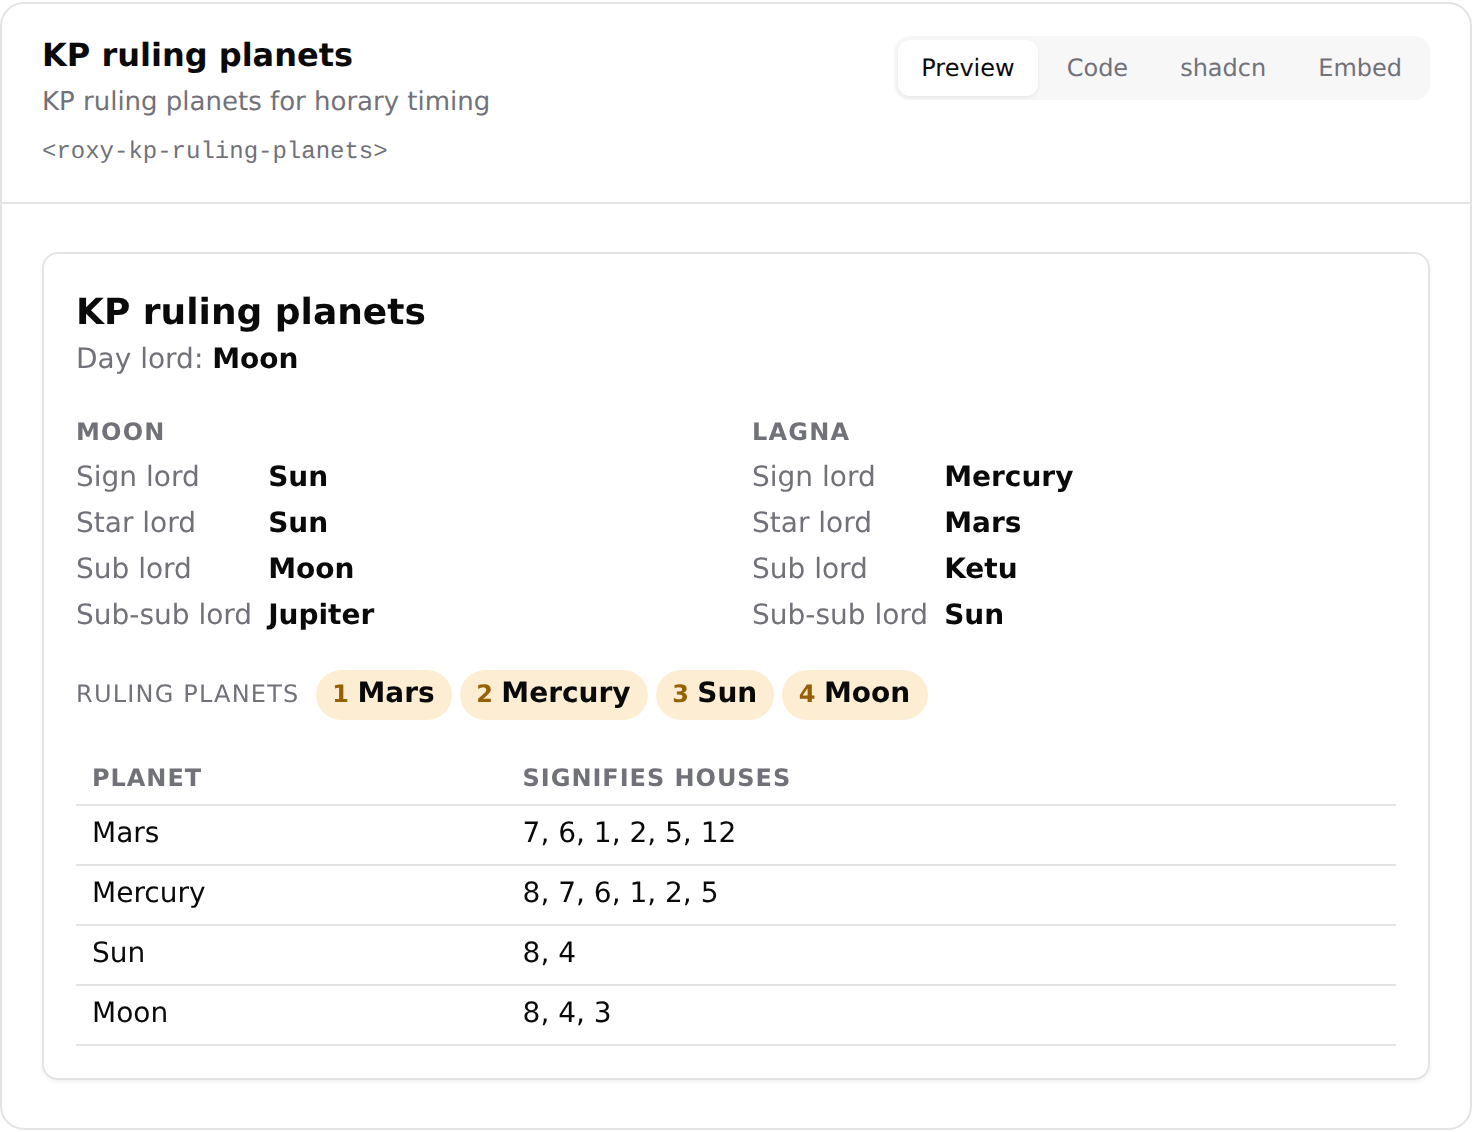
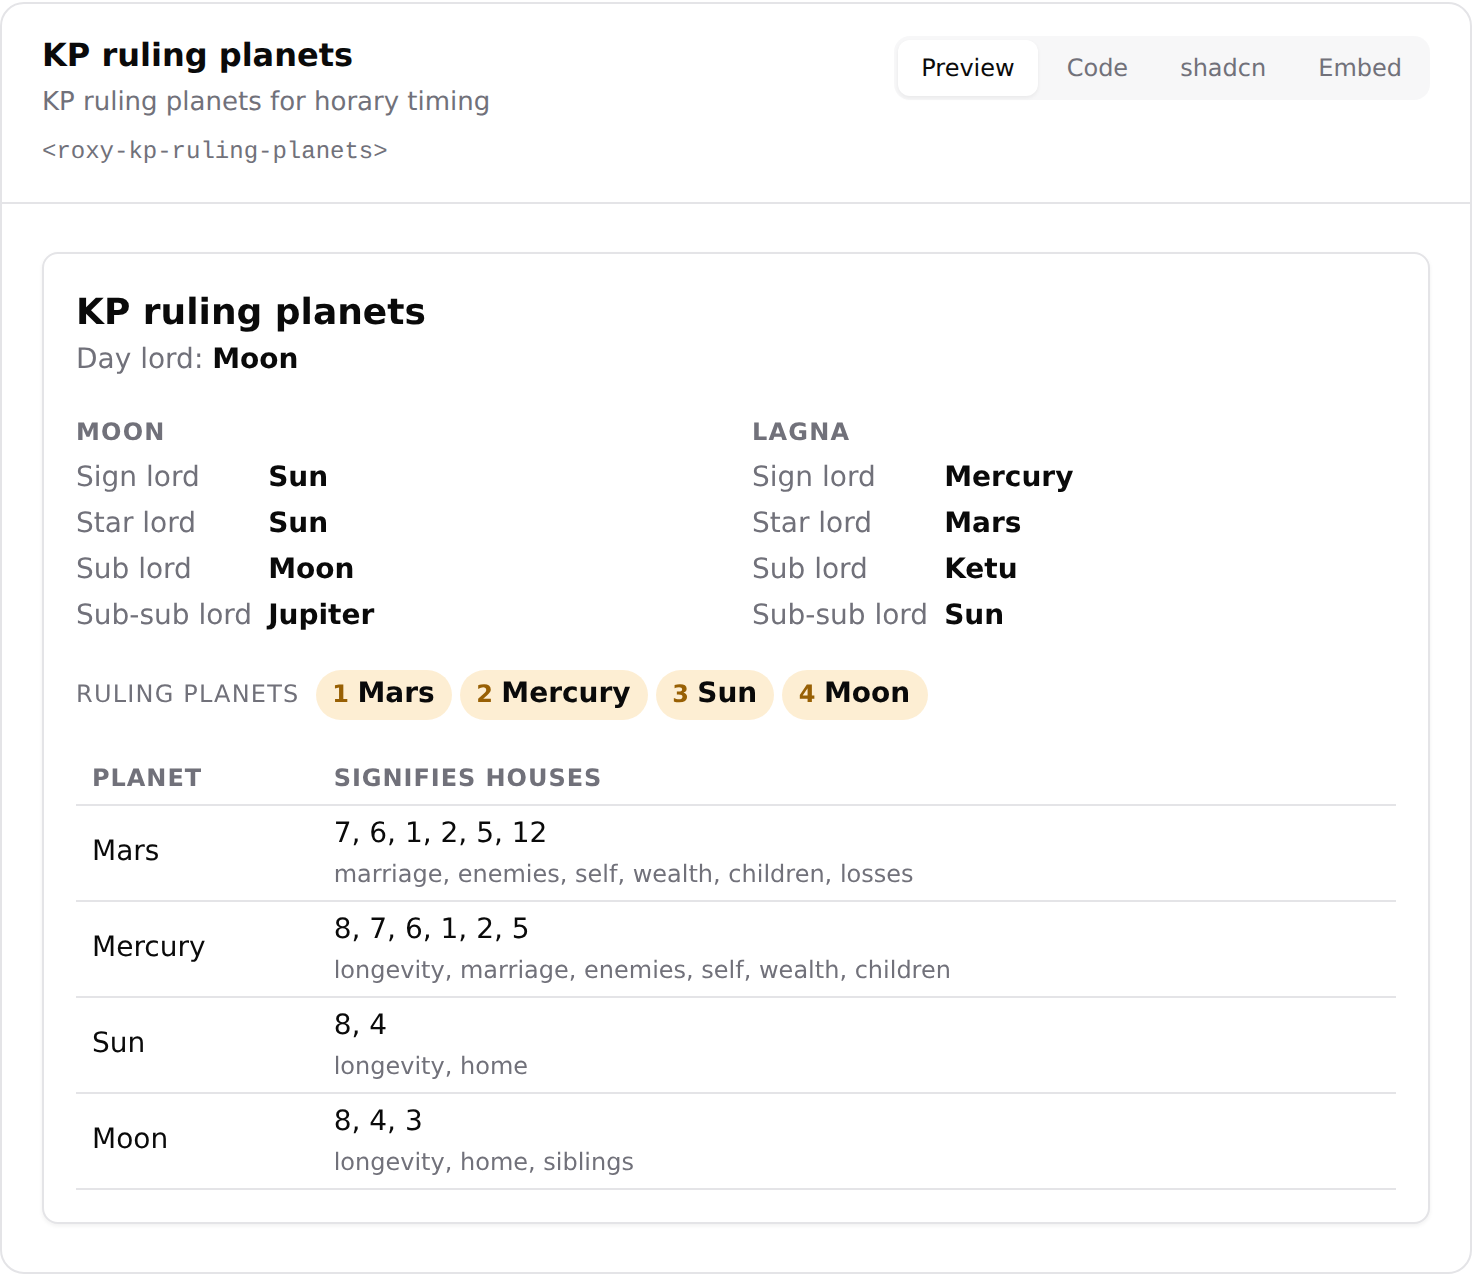
chore(assets): screenshots for the three new vedic tables and the resynced KP ruling planets card

diff --git a/scripts/screenshots.ts b/scripts/screenshots.ts
@@ -46,6 +46,9 @@ const TARGETS: Target[] = [
 	{ id: 'vedic-planets', label: 'vedic-planets-table' },
 	{ id: 'kp', label: 'kp-planets-table' },
 	{ id: 'kp-ruling', label: 'kp-ruling-planets' },
+	{ id: 'upagraha', label: 'upagraha-table' },
+	{ id: 'chara-karakas', label: 'chara-karakas' },
+	{ id: 'arudha', label: 'arudha-padas' },
 	{ id: 'ashtakavarga', label: 'ashtakavarga-grid' },
 	{ id: 'shadbala', label: 'shadbala-table' },
 	{ id: 'dasha', label: 'dasha-timeline' },
